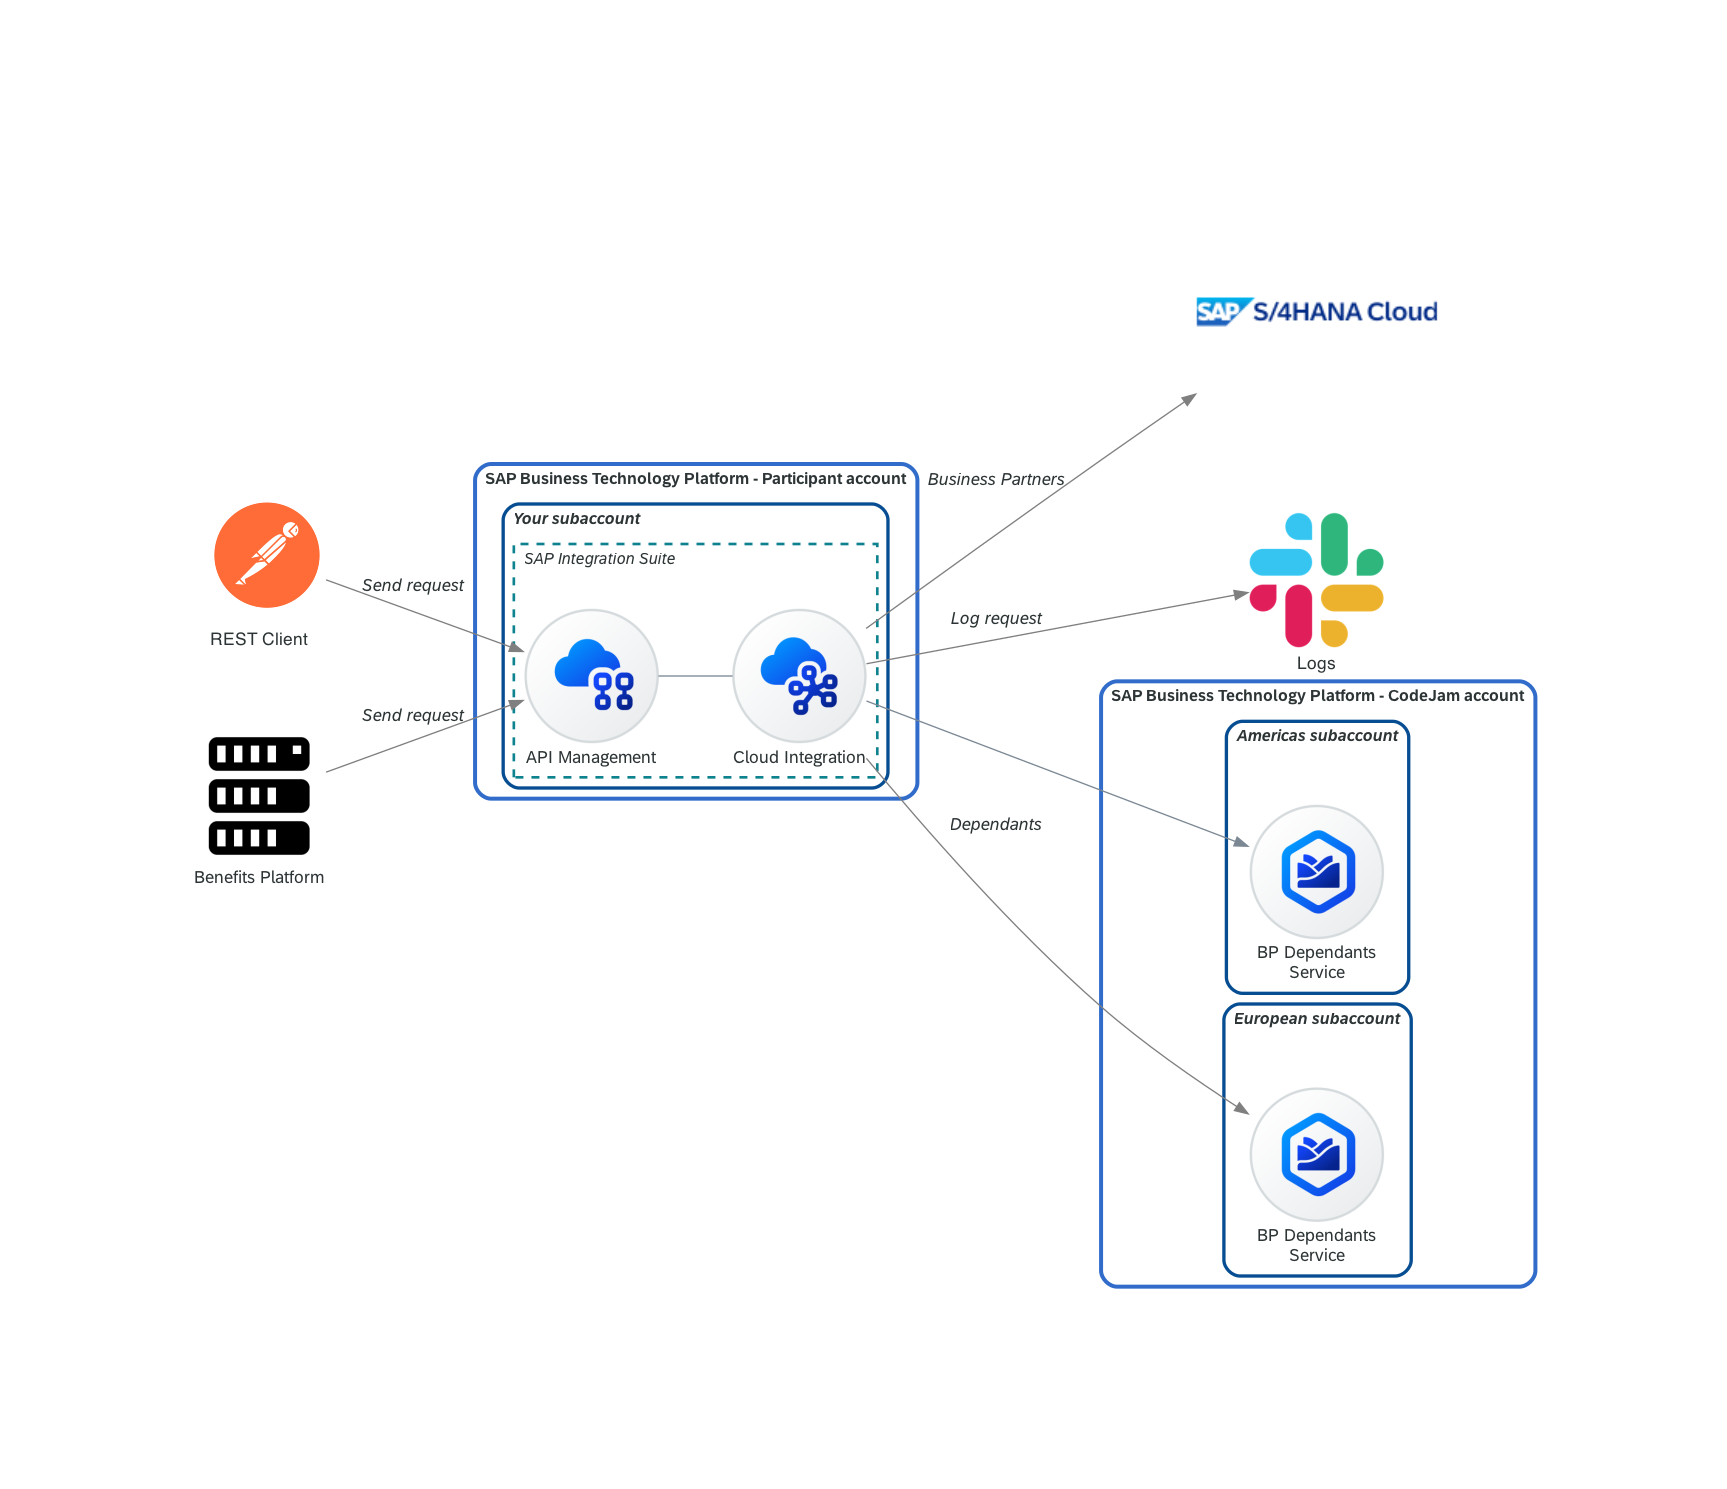
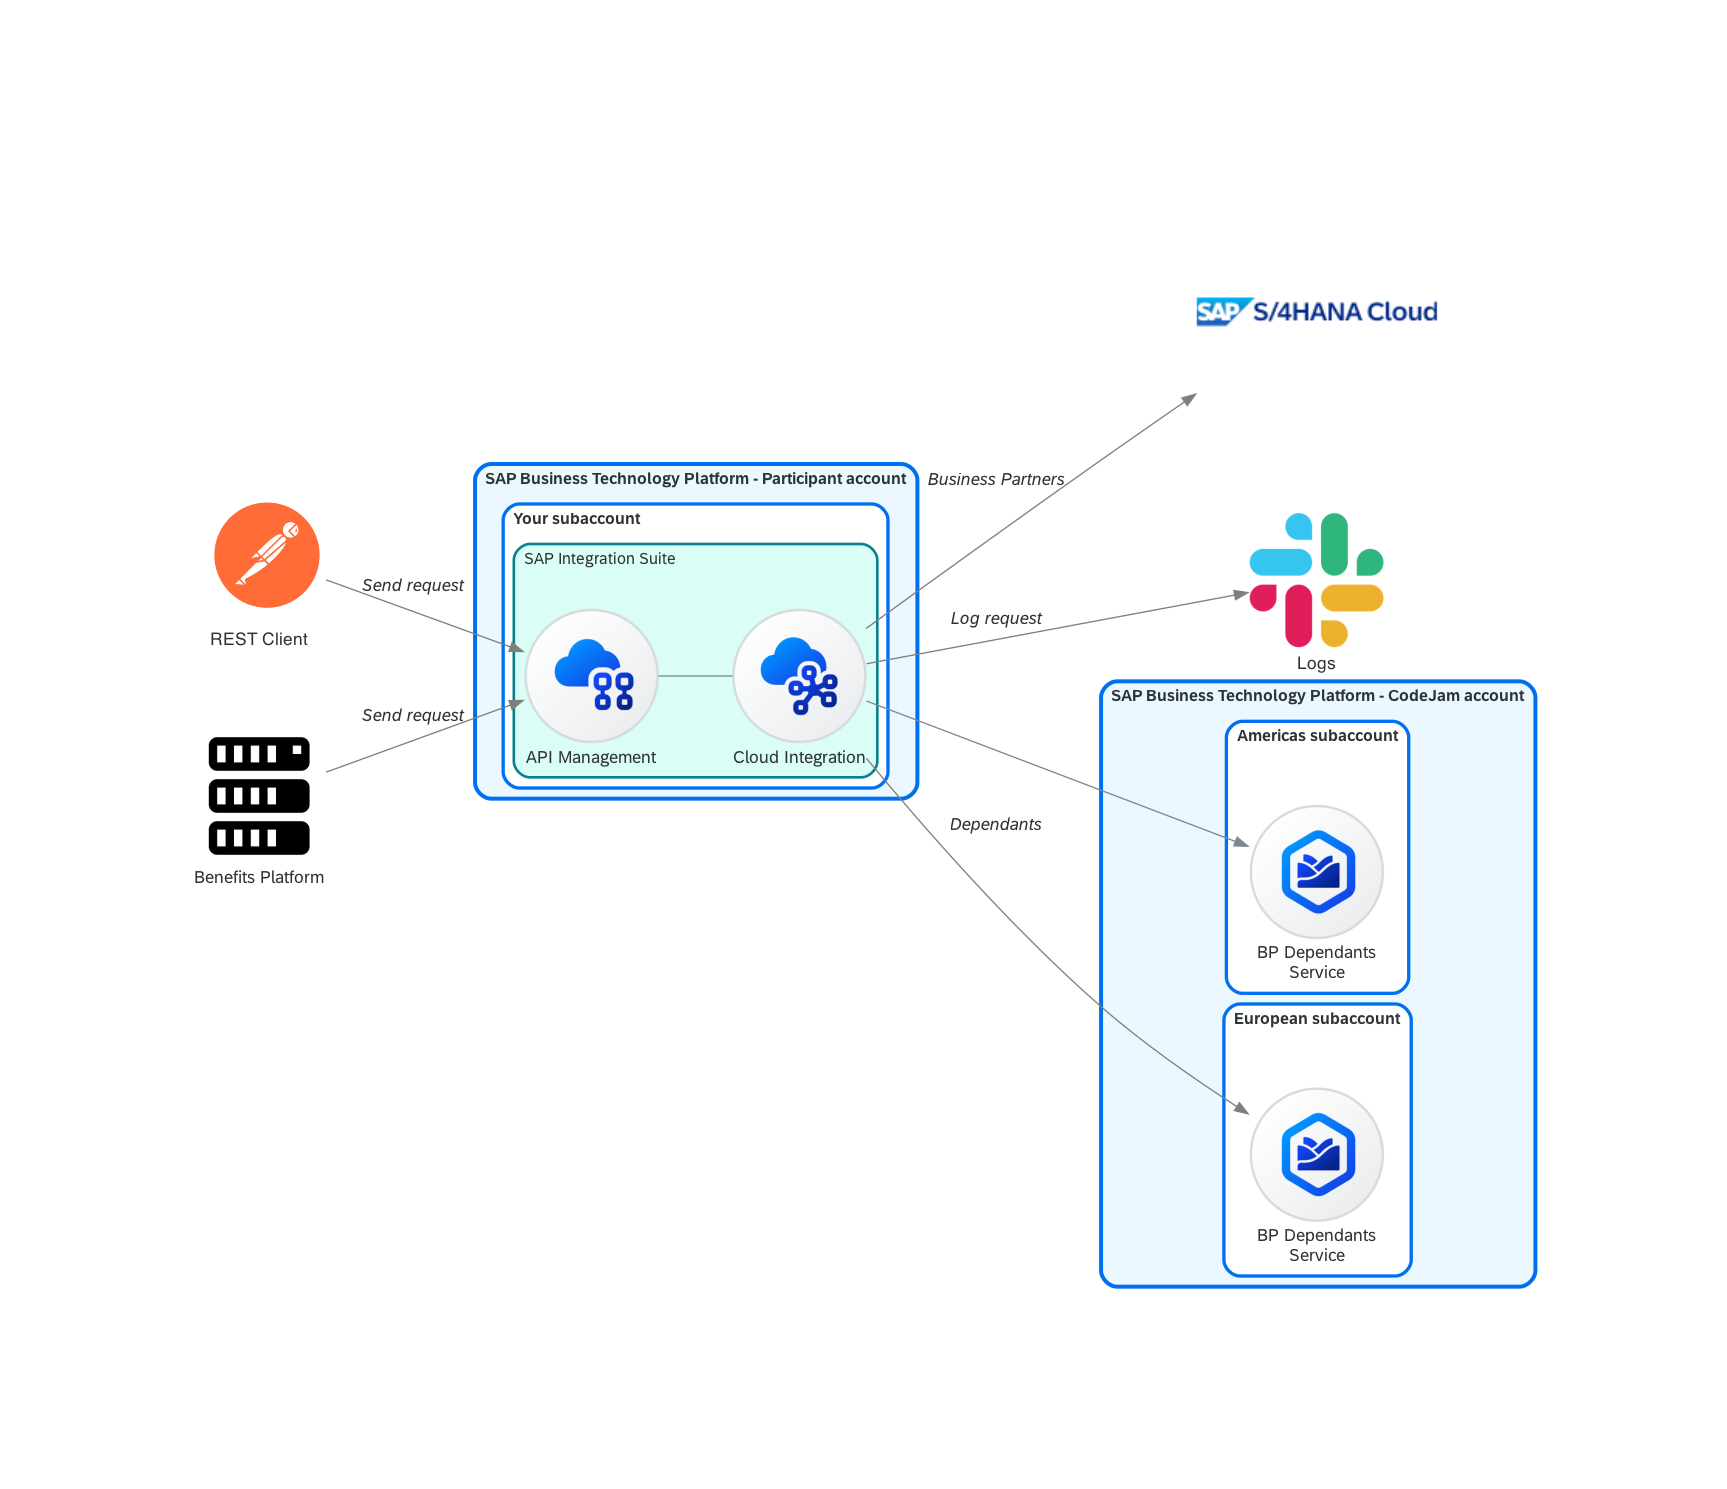
Updating diagrams

diff --git a/exercises/04.1-retrieve-bp-dependants/assets/diagrams/bp-diagram.py b/exercises/04.1-retrieve-bp-dependants/assets/diagrams/bp-diagram.py
@@ -5,19 +5,44 @@ from diagrams.sap.integration_suite import CloudIntegration, OpenConnectors, API
 from diagrams.sap.foundational import SAPBTPKymaRuntime
 from diagrams.sap.brands import SAPS4HANACloud
 
-# SAP BTP Solution Diagrams and Icons guidelines colors
-L0_BLUE_COLOUR = "#316CCA"
-L1_BLUE_COLOUR = "#074D92"
+# SAP BTP Solution Diagrams and Icons guidelines colours
+
+# SAP Areas
+L0_BORDER_COLOUR = "#0070F2"
+L0_FILLED_COLOUR = "#EBF8FF"
+L1_BORDER_COLOUR = "#0070F2"
+L1_FILLED_COLOUR = "#FFFFFF"
 L2_GREEN_COLOUR = "#0F828F"
+SUCCESS_GREEN_COLOUR = "#188918"
+SUCCESS_FILLED_COLOUR = "#F5FAE5"
+
+TEAL_BORDER_COLOUR = "#07838F"
+TEAL_FILLED_COLOUR = "#DAFDF5"
+
+INDIGO_BORDER_COLOUR = "#5D36FF"
+INDIGO_FILLED_COLOUR = "#F1ECFF"
+
+PINK_BORDER_COLOUR = "#5D36FF"
+PINK_FILLED_COLOUR = "#FFF0FA"
+
+# Non-SAP Areas
+L0_NON_SAP_BORDER_COLOUR = "#475E75"
+L0_NON_SAP_FILLED_COLOUR = "#F5F6F7"
+L1_NON_SAP_BORDER_COLOUR = "#595959"
+L1_NON_SAP_FILLED_COLOUR = "#FFFFFF"
+
 FIX_GREY_COLOUR = "#7F7F7F"
 NON_SAP_AREA_COLOUR = "#595959"
 
-GLOBALACCOUNT_GRAPH_ATTR = {"bgcolor": "white",
-                            "pencolor": L0_BLUE_COLOUR, "penwidth":"3.0", "fontname": "72 Bold"}
-SUBACCOUNT_GRAPH_ATTR = {"bgcolor": "white",
-                         "pencolor": L1_BLUE_COLOUR, "penwidth":"2.5", "fontname": "72 Bold Italic"}
+PRODUCER_COLOUR = "#07838F"
+CONSUMER_COLOUR = "#5D36FF"
+
+GLOBALACCOUNT_GRAPH_ATTR = {"bgcolor": L0_FILLED_COLOUR,
+                            "pencolor": L0_BORDER_COLOUR, "penwidth":"3.0", "fontname": "72 Bold"}
+SUBACCOUNT_GRAPH_ATTR = {"bgcolor": L1_FILLED_COLOUR,
+                         "pencolor": L1_BORDER_COLOUR, "penwidth":"2.5", "fontname": "72 Bold"}
 PRIMARY_EMPHASIZE_AREA_GRAPH_ATTR = {
-    "bgcolor": "white", "pencolor": L2_GREEN_COLOUR, "penwidth":"2.0", "style": "dashed", "fontname": "72 Italic"}
+    "bgcolor": TEAL_FILLED_COLOUR, "pencolor": TEAL_BORDER_COLOUR, "penwidth":"2.0", "fontname": "72 Regular"}
 
 NODE_LABEL = {"fontname": "72 Regular"}
 EDGE_LABEL = {"color": FIX_GREY_COLOUR, "fontname": "72 Italic"}

diff --git a/assets/diagrams/final-diagram.py b/assets/diagrams/final-diagram.py
@@ -7,19 +7,44 @@ from diagrams.sap.foundational import SAPBTPKymaRuntime
 from diagrams.saas.chat import Slack
 from diagrams.sap.brands import SAPS4HANACloud
 
-# SAP BTP Solution Diagrams and Icons guidelines colors
-L0_BLUE_COLOUR = "#316CCA"
-L1_BLUE_COLOUR = "#074D92"
+# SAP BTP Solution Diagrams and Icons guidelines colours
+
+# SAP Areas
+L0_BORDER_COLOUR = "#0070F2"
+L0_FILLED_COLOUR = "#EBF8FF"
+L1_BORDER_COLOUR = "#0070F2"
+L1_FILLED_COLOUR = "#FFFFFF"
 L2_GREEN_COLOUR = "#0F828F"
+SUCCESS_GREEN_COLOUR = "#188918"
+SUCCESS_FILLED_COLOUR = "#F5FAE5"
+
+TEAL_BORDER_COLOUR = "#07838F"
+TEAL_FILLED_COLOUR = "#DAFDF5"
+
+INDIGO_BORDER_COLOUR = "#5D36FF"
+INDIGO_FILLED_COLOUR = "#F1ECFF"
+
+PINK_BORDER_COLOUR = "#5D36FF"
+PINK_FILLED_COLOUR = "#FFF0FA"
+
+# Non-SAP Areas
+L0_NON_SAP_BORDER_COLOUR = "#475E75"
+L0_NON_SAP_FILLED_COLOUR = "#F5F6F7"
+L1_NON_SAP_BORDER_COLOUR = "#595959"
+L1_NON_SAP_FILLED_COLOUR = "#FFFFFF"
+
 FIX_GREY_COLOUR = "#7F7F7F"
 NON_SAP_AREA_COLOUR = "#595959"
 
-GLOBALACCOUNT_GRAPH_ATTR = {"bgcolor": "white",
-                            "pencolor": L0_BLUE_COLOUR, "penwidth":"3.0", "fontname": "72 Bold"}
-SUBACCOUNT_GRAPH_ATTR = {"bgcolor": "white",
-                         "pencolor": L1_BLUE_COLOUR, "penwidth":"2.5", "fontname": "72 Bold Italic"}
+PRODUCER_COLOUR = "#07838F"
+CONSUMER_COLOUR = "#5D36FF"
+
+GLOBALACCOUNT_GRAPH_ATTR = {"bgcolor": L0_FILLED_COLOUR,
+                            "pencolor": L0_BORDER_COLOUR, "penwidth":"3.0", "fontname": "72 Bold"}
+SUBACCOUNT_GRAPH_ATTR = {"bgcolor": L1_FILLED_COLOUR,
+                         "pencolor": L1_BORDER_COLOUR, "penwidth":"2.5", "fontname": "72 Bold"}
 PRIMARY_EMPHASIZE_AREA_GRAPH_ATTR = {
-    "bgcolor": "white", "pencolor": L2_GREEN_COLOUR, "penwidth":"2.0", "style": "dashed", "fontname": "72 Italic"}
+    "bgcolor": TEAL_FILLED_COLOUR, "pencolor": TEAL_BORDER_COLOUR, "penwidth":"2.0", "fontname": "72 Regular"}
 
 NODE_LABEL = {"fontname": "72 Regular"}
 EDGE_LABEL = {"color": FIX_GREY_COLOUR, "fontname": "72 Italic"}

diff --git a/exercises/05-log-requests-in-slack/assets/diagrams/slack-diagram.py b/exercises/05-log-requests-in-slack/assets/diagrams/slack-diagram.py
@@ -5,19 +5,44 @@ from diagrams.sap.foundational import SAPBTPKymaRuntime
 from diagrams.saas.chat import Slack
 from diagrams.sap.brands import SAPS4HANACloud
 
-# SAP BTP Solution Diagrams and Icons guidelines colors
-L0_BLUE_COLOUR = "#316CCA"
-L1_BLUE_COLOUR = "#074D92"
+# SAP BTP Solution Diagrams and Icons guidelines colours
+
+# SAP Areas
+L0_BORDER_COLOUR = "#0070F2"
+L0_FILLED_COLOUR = "#EBF8FF"
+L1_BORDER_COLOUR = "#0070F2"
+L1_FILLED_COLOUR = "#FFFFFF"
 L2_GREEN_COLOUR = "#0F828F"
+SUCCESS_GREEN_COLOUR = "#188918"
+SUCCESS_FILLED_COLOUR = "#F5FAE5"
+
+TEAL_BORDER_COLOUR = "#07838F"
+TEAL_FILLED_COLOUR = "#DAFDF5"
+
+INDIGO_BORDER_COLOUR = "#5D36FF"
+INDIGO_FILLED_COLOUR = "#F1ECFF"
+
+PINK_BORDER_COLOUR = "#5D36FF"
+PINK_FILLED_COLOUR = "#FFF0FA"
+
+# Non-SAP Areas
+L0_NON_SAP_BORDER_COLOUR = "#475E75"
+L0_NON_SAP_FILLED_COLOUR = "#F5F6F7"
+L1_NON_SAP_BORDER_COLOUR = "#595959"
+L1_NON_SAP_FILLED_COLOUR = "#FFFFFF"
+
 FIX_GREY_COLOUR = "#7F7F7F"
 NON_SAP_AREA_COLOUR = "#595959"
 
-GLOBALACCOUNT_GRAPH_ATTR = {"bgcolor": "white",
-                            "pencolor": L0_BLUE_COLOUR, "penwidth":"3.0", "fontname": "72 Bold"}
-SUBACCOUNT_GRAPH_ATTR = {"bgcolor": "white",
-                         "pencolor": L1_BLUE_COLOUR, "penwidth":"2.5", "fontname": "72 Bold Italic"}
+PRODUCER_COLOUR = "#07838F"
+CONSUMER_COLOUR = "#5D36FF"
+
+GLOBALACCOUNT_GRAPH_ATTR = {"bgcolor": L0_FILLED_COLOUR,
+                            "pencolor": L0_BORDER_COLOUR, "penwidth":"3.0", "fontname": "72 Bold"}
+SUBACCOUNT_GRAPH_ATTR = {"bgcolor": L1_FILLED_COLOUR,
+                         "pencolor": L1_BORDER_COLOUR, "penwidth":"2.5", "fontname": "72 Bold"}
 PRIMARY_EMPHASIZE_AREA_GRAPH_ATTR = {
-    "bgcolor": "white", "pencolor": L2_GREEN_COLOUR, "penwidth":"2.0", "style": "dashed", "fontname": "72 Italic"}
+    "bgcolor": TEAL_FILLED_COLOUR, "pencolor": TEAL_BORDER_COLOUR, "penwidth":"2.0", "fontname": "72 Regular"}
 
 NODE_LABEL = {"fontname": "72 Regular"}
 EDGE_LABEL = {"color": FIX_GREY_COLOUR, "fontname": "72 Italic"}
